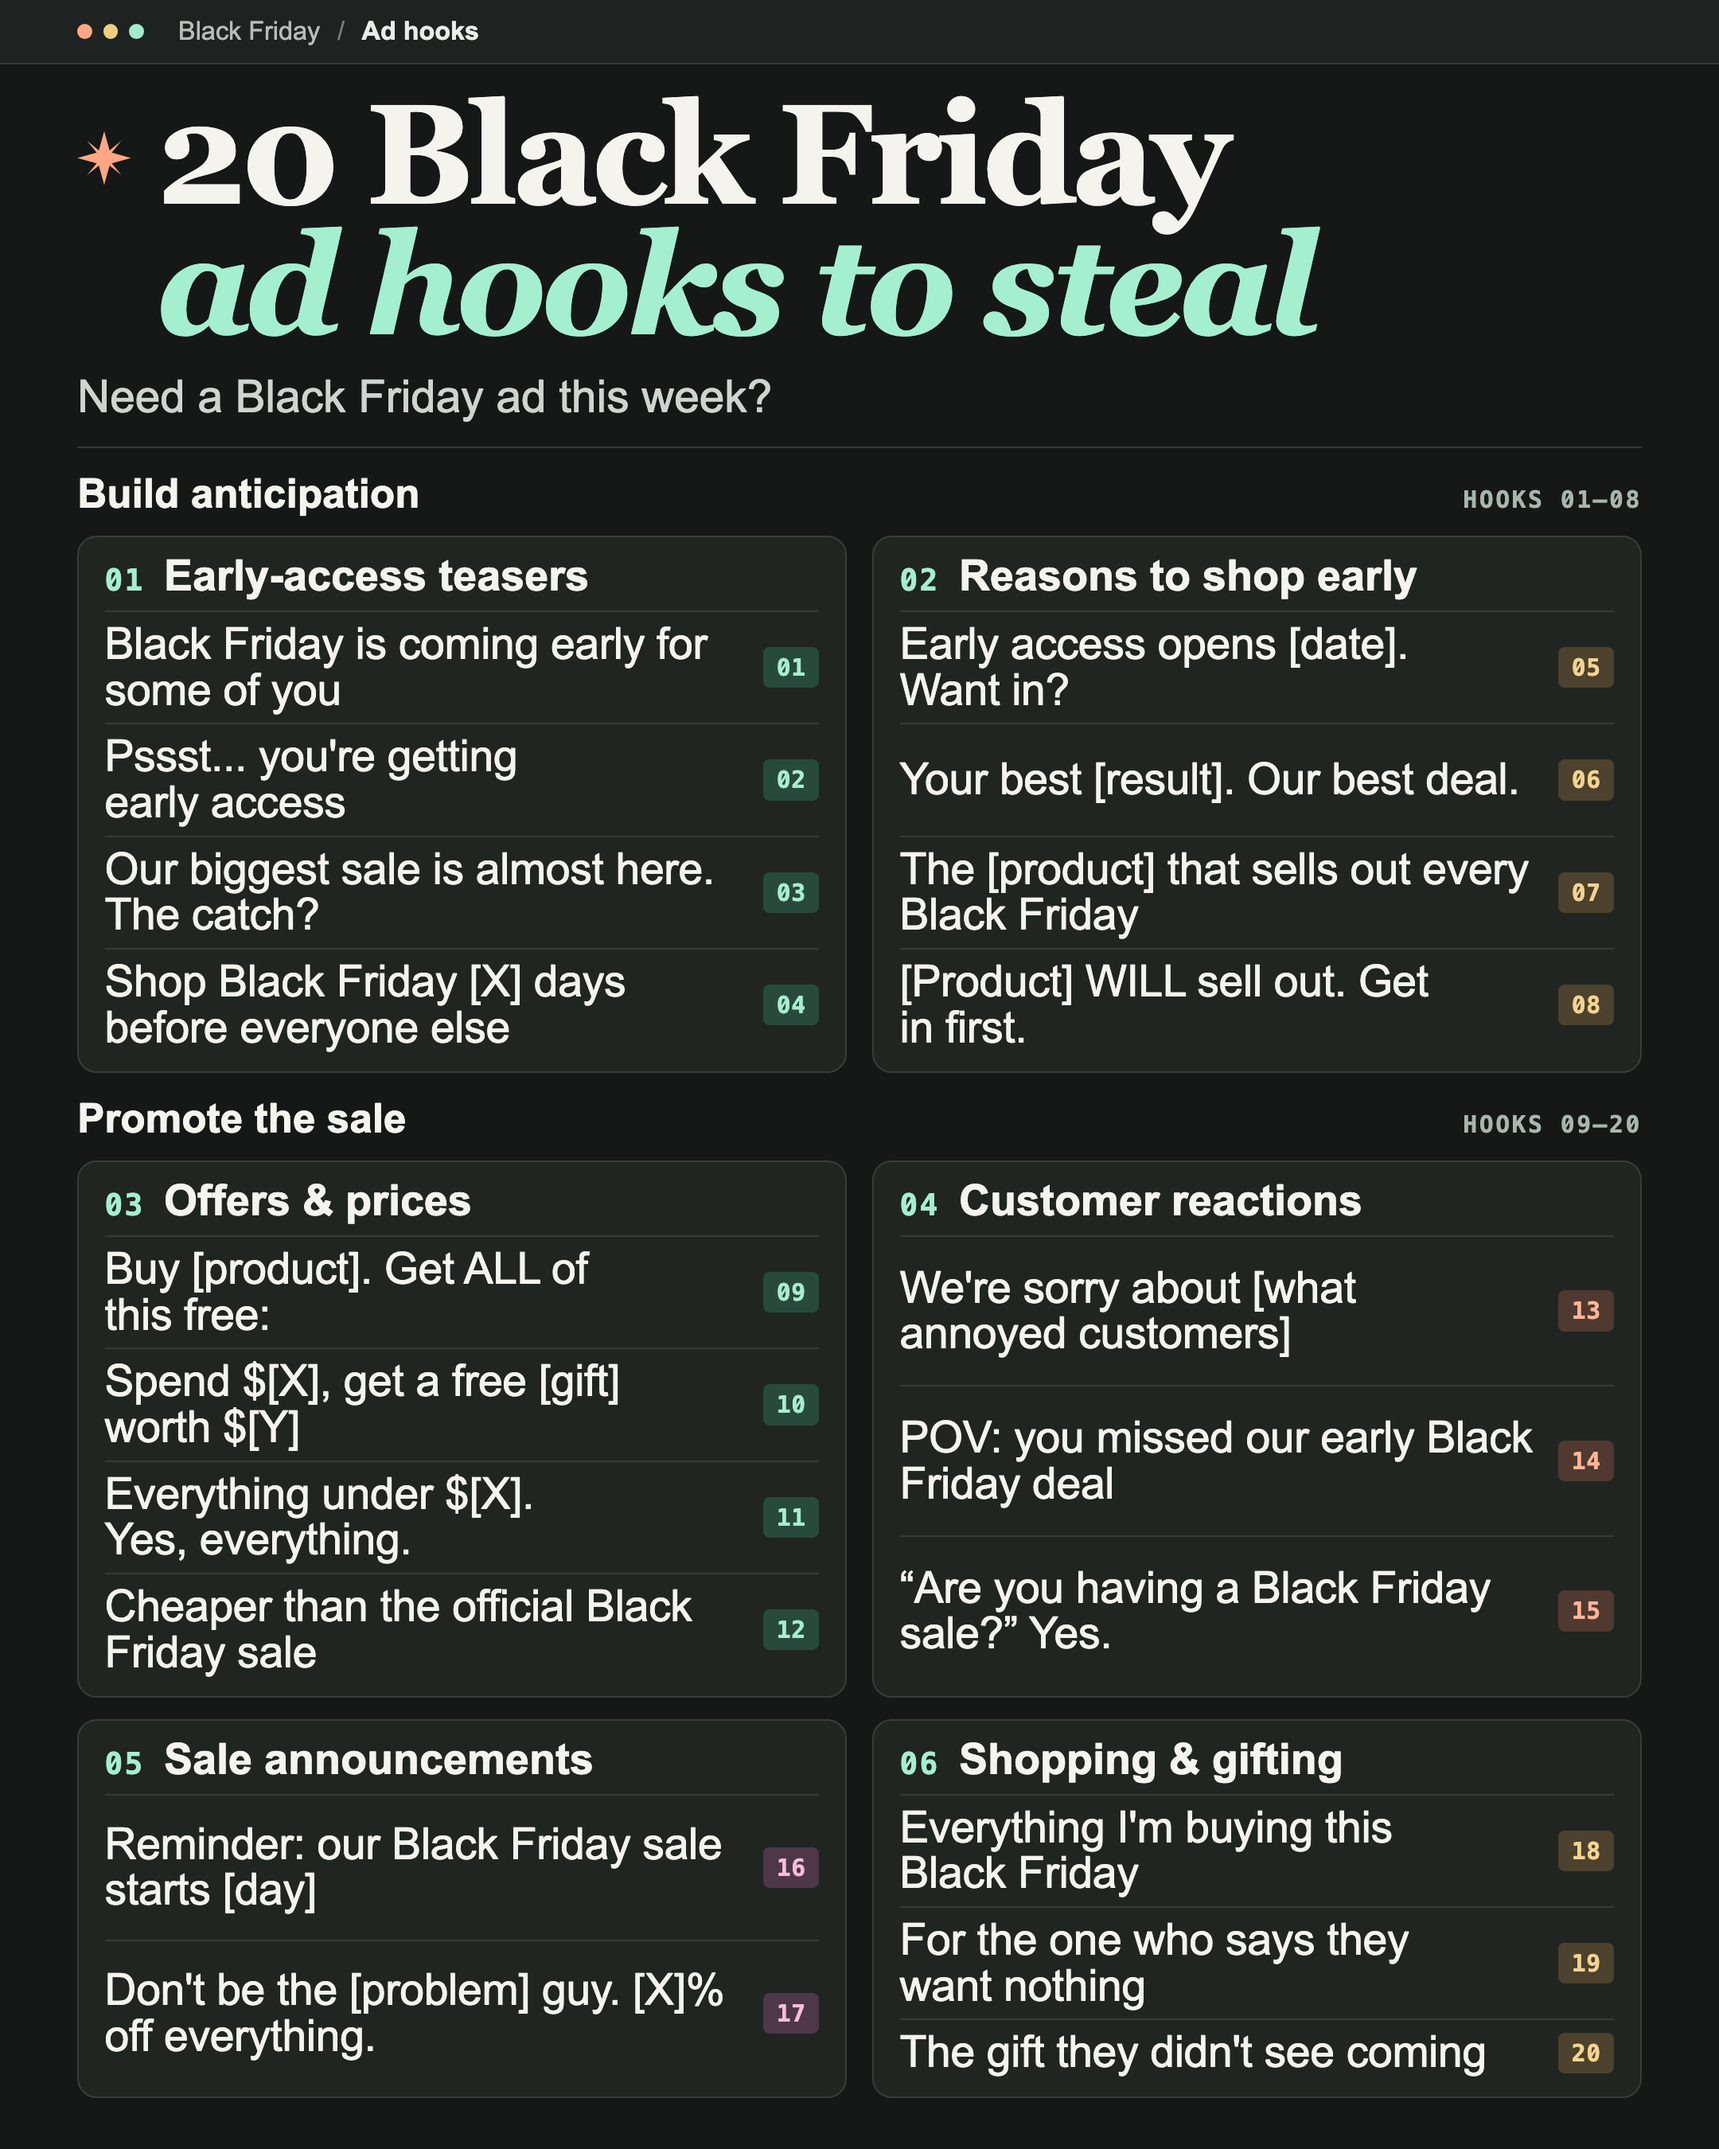
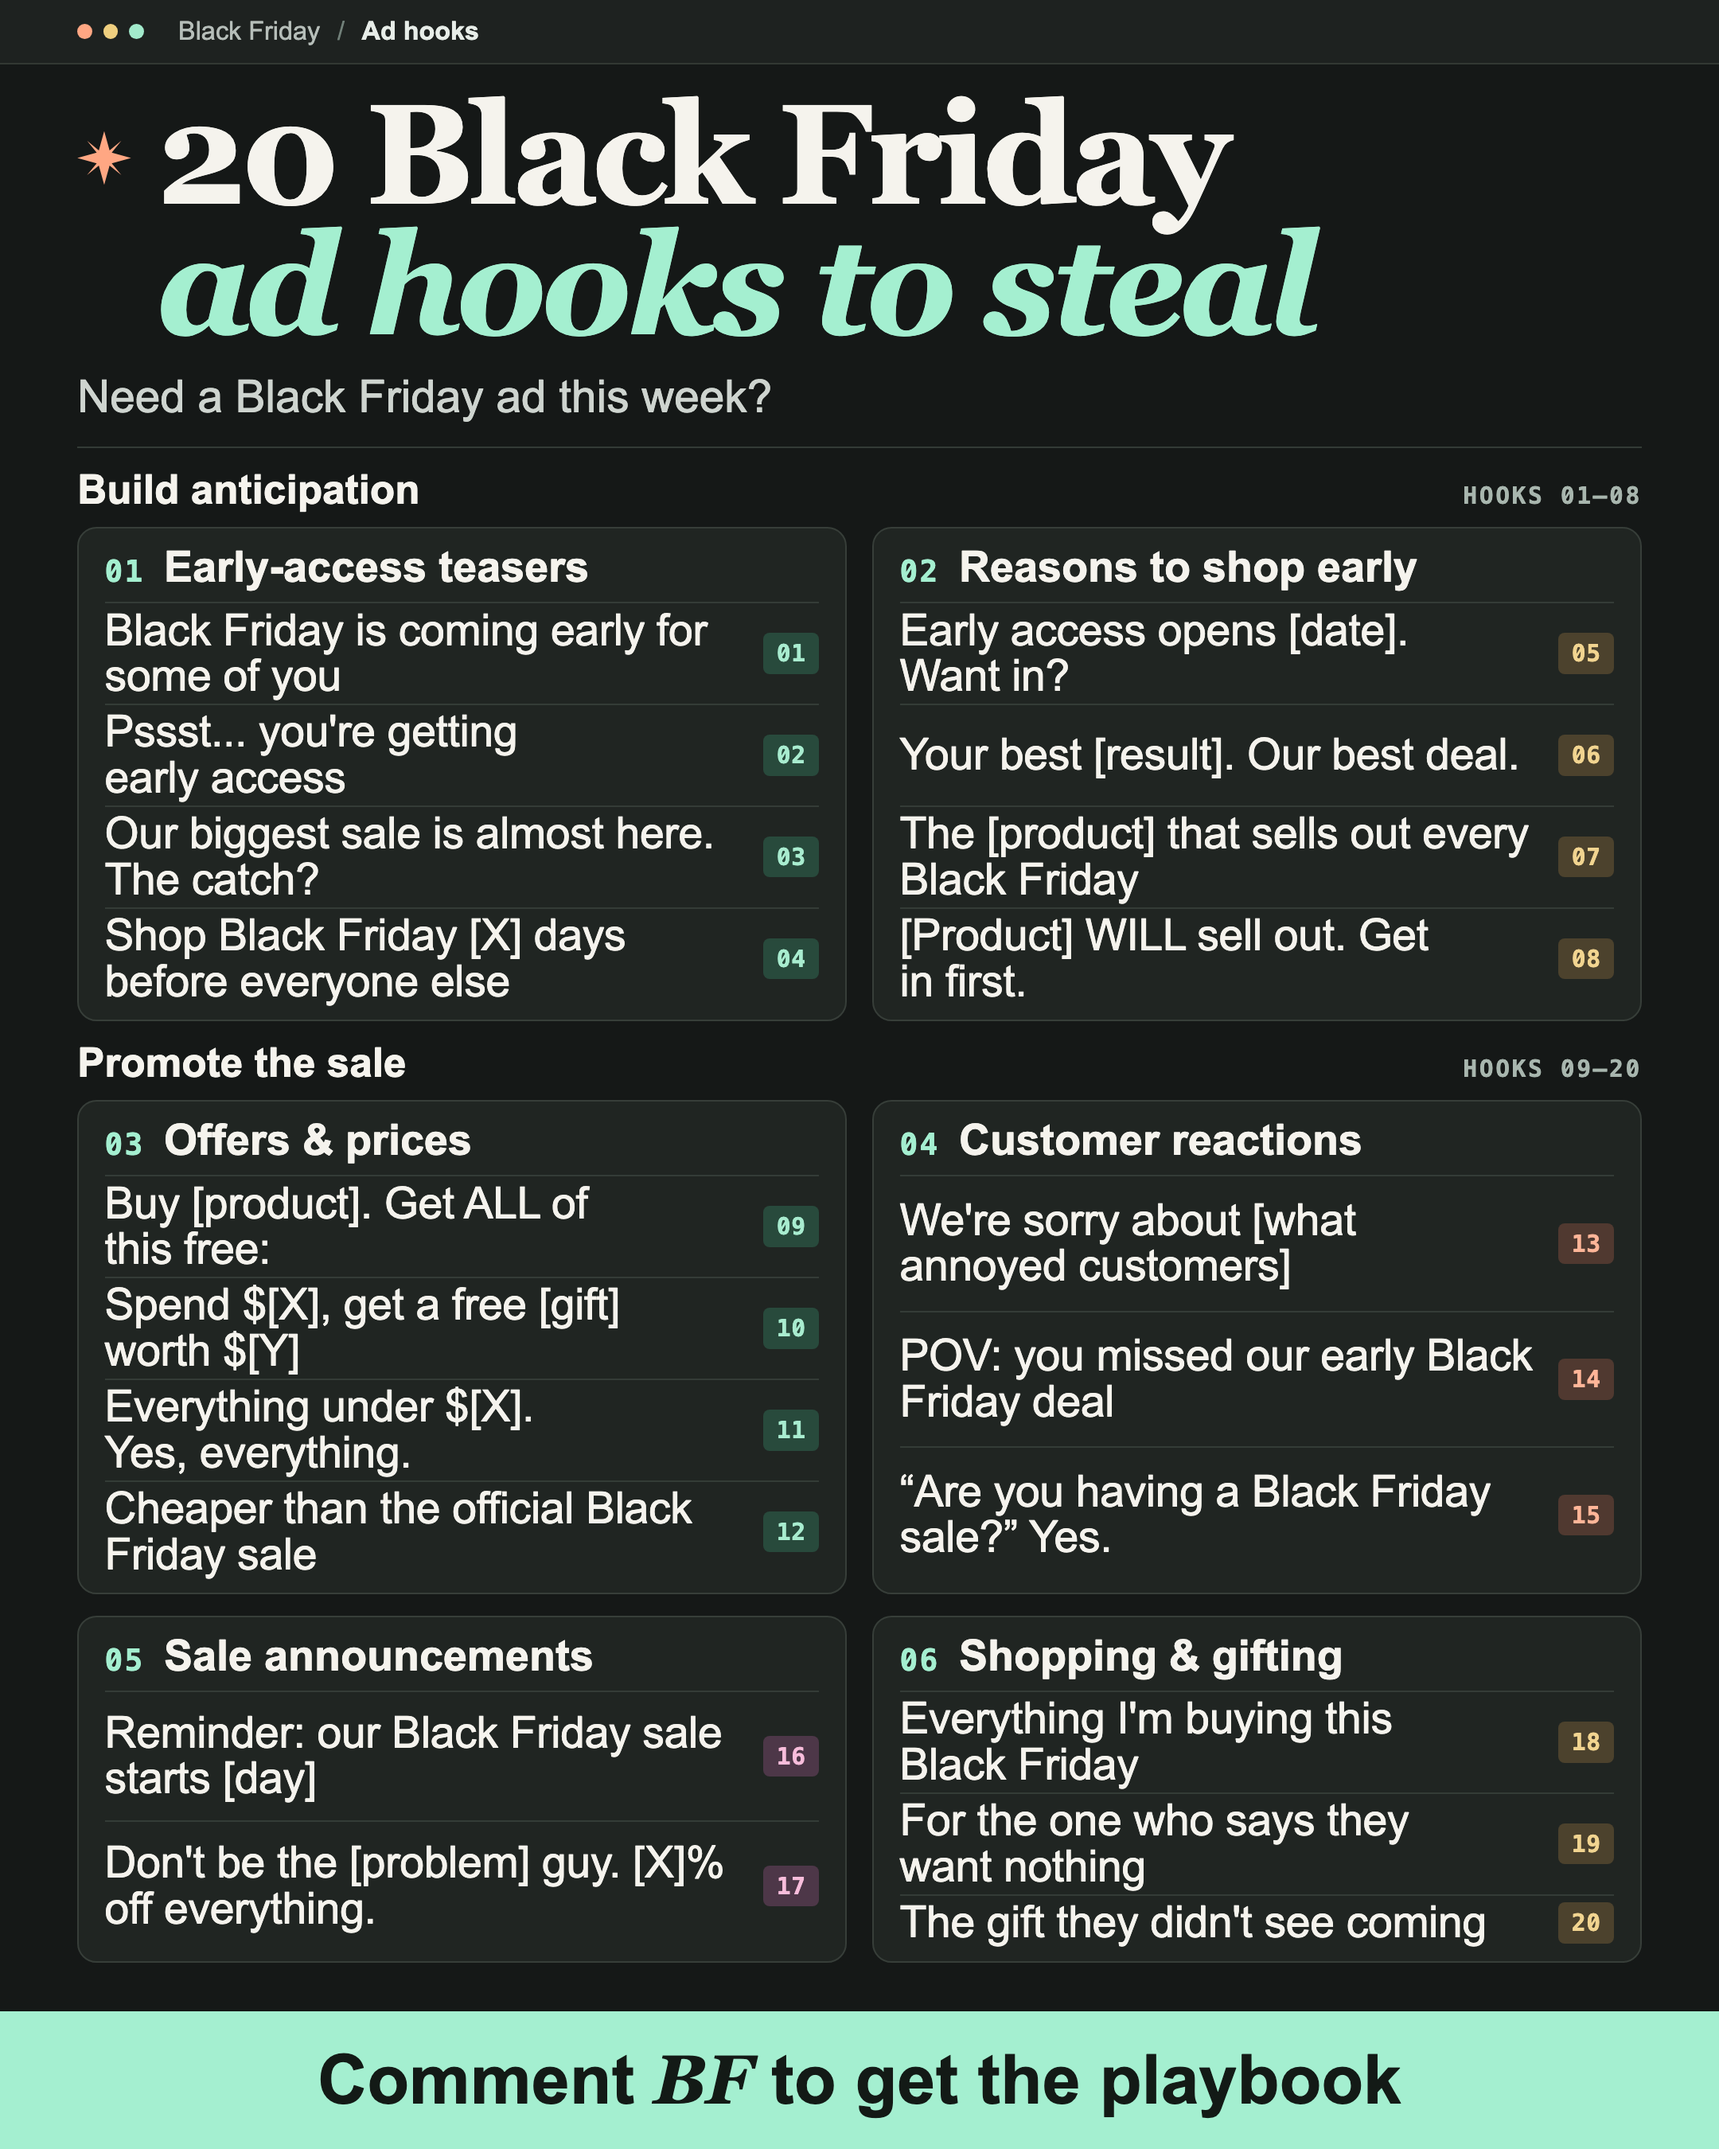
Add BF claim CTA to Black Friday infographic

diff --git a/输出/2026-11-19-black-friday-ad-hooks/使用提示词.md b/输出/2026-11-19-black-friday-ad-hooks/使用提示词.md
@@ -6,10 +6,12 @@
 
 正文用两列三行的等宽六卡网格，按每行左卡、右卡顺序阅读。第一行组标题为 `Build anticipation`，右侧写 `HOOKS 01–08`。后两行组标题为 `Promote the sale`，右侧写 `HOOKS 09–20`。卡片用稍亮的深灰底、小圆角和细描边；标题用薄荷绿两位数编号加白色粗体。每条 hook 左侧排浅色 Arial 正文，右侧用等宽小标签显示原文两位序号。卡片按薄荷绿、奶油黄、珊瑚橙和浅粉配色，以低对比细线分隔各行
 
-下列 20 条逐字排印，保留句式、标点、大小写、占位符与原序，只允许排版换行。品牌检查覆盖无关 Logo、账号、网址、水印及模板残留。检查 390 px 宽的图内文字、六卡完整性和页底留白
+下列 20 条逐字排印，保留句式、标点、大小写、占位符与原序，只允许排版换行。品牌检查覆盖无关 Logo、账号、网址、水印及模板残留。检查 390 px 宽的图内文字、六卡完整性和底栏文字
 
-- keywords：—
-- 最终 CTA：—
+- keywords：BF
+- 最终 CTA：Comment BF to get the playbook
+
+卡片下方留出暗色间距，画布底部加入 64 CSS px 高的满宽薄荷绿横幅。居中排印黑色粗体 `Comment BF to get the playbook`，其中 `BF` 使用黑色 Georgia 粗斜体
 
 ## 图内正文
 
@@ -53,4 +55,6 @@
 
 ## 实际修改指令
 
-收紧标题区、卡片内边距和行距，让末行卡片完整显示，并重新以 390 px 宽检查每条 hook。保留原句与逐条编号；使用无领取 CTA 版式，底部留出暗色边距
+v01 收紧标题区、卡片内边距和行距，让末行卡片完整显示，并以 390 px 宽检查每条 hook
+
+v02 按用户提供的关键词 BF 加入薄荷绿领取底栏，调整卡片上下内间距，重新检查 20 条 hook 与底栏

diff --git a/输出/2026-11-19-black-friday-ad-hooks/任务记录.md b/输出/2026-11-19-black-friday-ad-hooks/任务记录.md
@@ -7,10 +7,11 @@
 - 原始附件：[[输入/2026-11-19-black-friday-ad-hooks/source-screenshot.png]]
 - 引言与逐行转录：[[输入/2026-11-19-black-friday-ad-hooks/会话原文与截图转录]]
 - 成图：[[输出/2026-11-19-black-friday-ad-hooks/black-friday-ad-hooks-4x5-en.png]]
-- keywords：—
-- 最终 CTA：—
-- 当前版本：v01，英文 4:5 PNG，2160 × 2700 px
+- keywords：BF
+- 最终 CTA：Comment BF to get the playbook
+- 当前版本：v02，英文 4:5 PNG，2160 × 2700 px
+- 前一版：[[输出/2026-11-19-black-friday-ad-hooks/black-friday-ad-hooks-4x5-en-v01.png]]
 - 制作：按深色六卡模板使用 HTML/CSS 排版并通过 Chromium 导出，按原顺序呈现 20 条英文 hook
-- 修改：收紧标题和卡片间距，保留图内原句、标点与占位符，采用无领取 CTA 的版式
-- 验证：已核对 PNG 尺寸、完整的六张卡片、390 px 宽预览、20 条逐条文字以及连续编号
-- 品牌检查：已查看成图，画面仅有黑五主题导航、标题、分组和原文，无无关品牌标识、水印、账号或网址
+- 修改：v01 收紧标题和卡片间距，排入 20 条原文；v02 按用户提供的 BF 添加薄荷绿领取底栏，调整卡片内间距
+- 验证：已核对 PNG 尺寸、完整的六张卡片、390 px 宽预览、20 条逐条文字、连续编号及 CTA 大小写
+- 品牌检查：已查看成图，已核对黑五主题导航、标题、分组、原文与领取底栏，无无关品牌标识、水印、账号或网址
